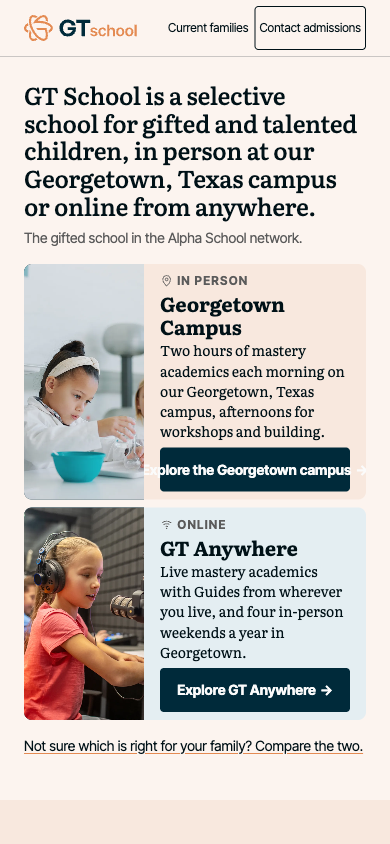
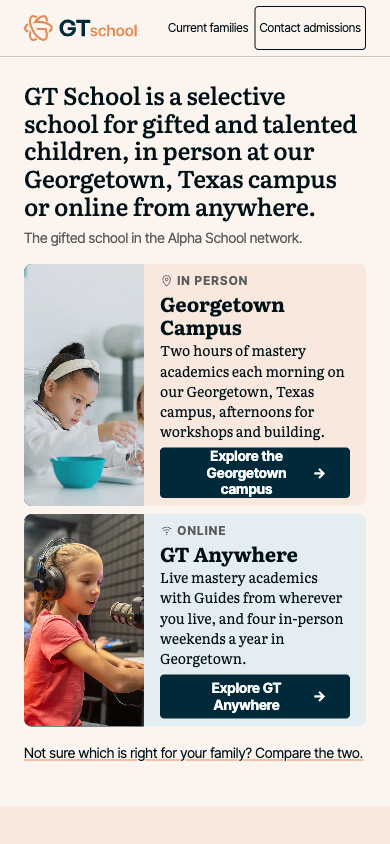
test(mocks): watchdog second pass after the design-lead pass: 20 screenshots, all five inside the fold, zero console errors

Changed region(s): [[0.0615, 0.4005, 0.9231, 0.9242]]

diff --git a/0_plan/mockups/shared/screenshots/QA-2026-09-11.md b/0_plan/mockups/shared/screenshots/QA-2026-09-11.md
@@ -1,0 +1,71 @@
+**Date:** 2026-09-11 · **Server:** http://127.0.0.1:8213 · Second pass after the design-lead pass.
+
+| Mock | 390: door CTAs inside 844 (yes/no, bottoms) | 390: compare link bottom | 390: scrollWidth | 1440: door CTAs inside 900 (yes/no, bottoms) | 1440: compare link bottom | 1440: scrollWidth | h1 | images missing alt | small targets (<44px, list or none) | provenance count | unloaded images after scroll | console errors 390 / 1440 |
+|---|---|---|---|---|---|---|---|---|---|---|---|---|
+| M1 | yes (498, 718) | 774 | 390 | yes (841, 841) | 941 | 1440 | 1 | 0 | none | 1 | none | 0 / 0 |
+| M2 | yes (534, 727) | 795 | 390 | yes (705, 705) | 773 | 1440 | 1 | 0 | none | 1 | none | 0 / 0 |
+| M3 | yes (542, 769) | 837 | 390 | yes (846, 846) | 954 | 1440 | 1 | 0 | none | 1 | none | 0 / 0 |
+| M4 | yes (577, 783) | 871 | 390 | yes (841, 818) | 965 | 1440 | 1 | 0 | none | 1 | 4: georgetown-dscf1931.webp, georgetown-student-writing.webp, gtschool-3993.webp, anywhere-academics.webp | 0 / 0 |
+| M5 | yes (550, 791) | 848 | 390 | yes (733, 707) | 834 | 1440 | 1 | 0 | none | 1 | none | 0 / 0 |
+
+## Raw JSON
+
+### M1 — two-doors
+
+390:
+```json
+{"w":390,"h":844,"scrollWidth":390,"h1":1,"imgsMissingAlt":0,"doorCtas":[{"top":447,"bottom":498,"w":190,"h":50},{"top":674,"bottom":718,"w":190,"h":44}],"compare":{"top":730,"bottom":774,"w":339,"h":44},"smallTargets":[],"provenanceCount":1,"brokenOrUnloaded":[],"consoleErrors":{"count":0,"texts":[]}}
+```
+
+1440:
+```json
+{"w":1440,"h":900,"scrollWidth":1440,"h1":1,"imgsMissingAlt":0,"doorCtas":[{"top":793,"bottom":841,"w":323,"h":48},{"top":793,"bottom":841,"w":241,"h":48}],"compare":{"top":897,"bottom":941,"w":388,"h":44},"smallTargets":[],"provenanceCount":1,"brokenOrUnloaded":[],"consoleErrors":{"count":0,"texts":[]}}
+```
+
+### M2 — the-institute
+
+390:
+```json
+{"w":390,"h":844,"scrollWidth":390,"h1":1,"imgsMissingAlt":0,"doorCtas":[{"top":486,"bottom":534,"w":342,"h":48},{"top":679,"bottom":727,"w":342,"h":48}],"compare":{"top":751,"bottom":795,"w":339,"h":44},"smallTargets":[],"provenanceCount":1,"brokenOrUnloaded":[],"consoleErrors":{"count":0,"texts":[]}}
+```
+
+1440:
+```json
+{"w":1440,"h":900,"scrollWidth":1440,"h1":1,"imgsMissingAlt":0,"doorCtas":[{"top":657,"bottom":705,"w":277,"h":48},{"top":657,"bottom":705,"w":206,"h":48}],"compare":{"top":729,"bottom":773,"w":339,"h":44},"smallTargets":[],"provenanceCount":1,"brokenOrUnloaded":[],"consoleErrors":{"count":0,"texts":[]}}
+```
+
+### M3 — private-quiet
+
+390:
+```json
+{"w":390,"h":844,"scrollWidth":390,"h1":1,"imgsMissingAlt":0,"doorCtas":[{"top":498,"bottom":542,"w":223,"h":44},{"top":725,"bottom":769,"w":152,"h":44}],"compare":{"top":793,"bottom":837,"w":339,"h":44},"smallTargets":[],"provenanceCount":1,"brokenOrUnloaded":[],"consoleErrors":{"count":0,"texts":[]}}
+```
+
+1440:
+```json
+{"w":1440,"h":900,"scrollWidth":1440,"h1":1,"imgsMissingAlt":0,"doorCtas":[{"top":802,"bottom":846,"w":223,"h":44},{"top":802,"bottom":846,"w":152,"h":44}],"compare":{"top":910,"bottom":954,"w":339,"h":44},"smallTargets":[],"provenanceCount":1,"brokenOrUnloaded":[],"consoleErrors":{"count":0,"texts":[]}}
+```
+
+### M4 — builders
+
+390:
+```json
+{"w":390,"h":844,"scrollWidth":390,"h1":1,"imgsMissingAlt":0,"doorCtas":[{"top":533,"bottom":577,"w":294,"h":44},{"top":739,"bottom":783,"w":294,"h":44}],"compare":{"top":827,"bottom":871,"w":339,"h":44},"smallTargets":[],"provenanceCount":1,"brokenOrUnloaded":["../shared/img/georgetown-dscf1931.webp","../shared/img/georgetown-student-writing.webp","../shared/img/gtschool-3993.webp","../shared/img/anywhere-academics.webp"],"consoleErrors":{"count":0,"texts":[]}}
+```
+
+1440:
+```json
+{"w":1440,"h":900,"scrollWidth":1440,"h1":1,"imgsMissingAlt":0,"doorCtas":[{"top":797,"bottom":841,"w":275,"h":44},{"top":774,"bottom":818,"w":204,"h":44}],"compare":{"top":921,"bottom":965,"w":388,"h":44},"smallTargets":[],"provenanceCount":1,"brokenOrUnloaded":["../shared/img/georgetown-dscf1931.webp","../shared/img/georgetown-student-writing.webp","../shared/img/gtschool-3993.webp","../shared/img/anywhere-academics.webp"],"consoleErrors":{"count":0,"texts":[]}}
+```
+
+### M5 — one-school-two-campuses
+
+390:
+```json
+{"w":390,"h":844,"scrollWidth":390,"h1":1,"imgsMissingAlt":0,"doorCtas":[{"top":506,"bottom":550,"w":204,"h":44},{"top":747,"bottom":791,"w":204,"h":44}],"compare":{"top":804,"bottom":848,"w":339,"h":44},"smallTargets":[],"provenanceCount":1,"brokenOrUnloaded":[],"consoleErrors":{"count":0,"texts":[]}}
+```
+
+1440:
+```json
+{"w":1440,"h":900,"scrollWidth":1440,"h1":1,"imgsMissingAlt":0,"doorCtas":[{"top":689,"bottom":733,"w":275,"h":44},{"top":663,"bottom":707,"w":204,"h":44}],"compare":{"top":790,"bottom":834,"w":388,"h":44},"smallTargets":[],"provenanceCount":1,"brokenOrUnloaded":[],"consoleErrors":{"count":0,"texts":[]}}
+```
